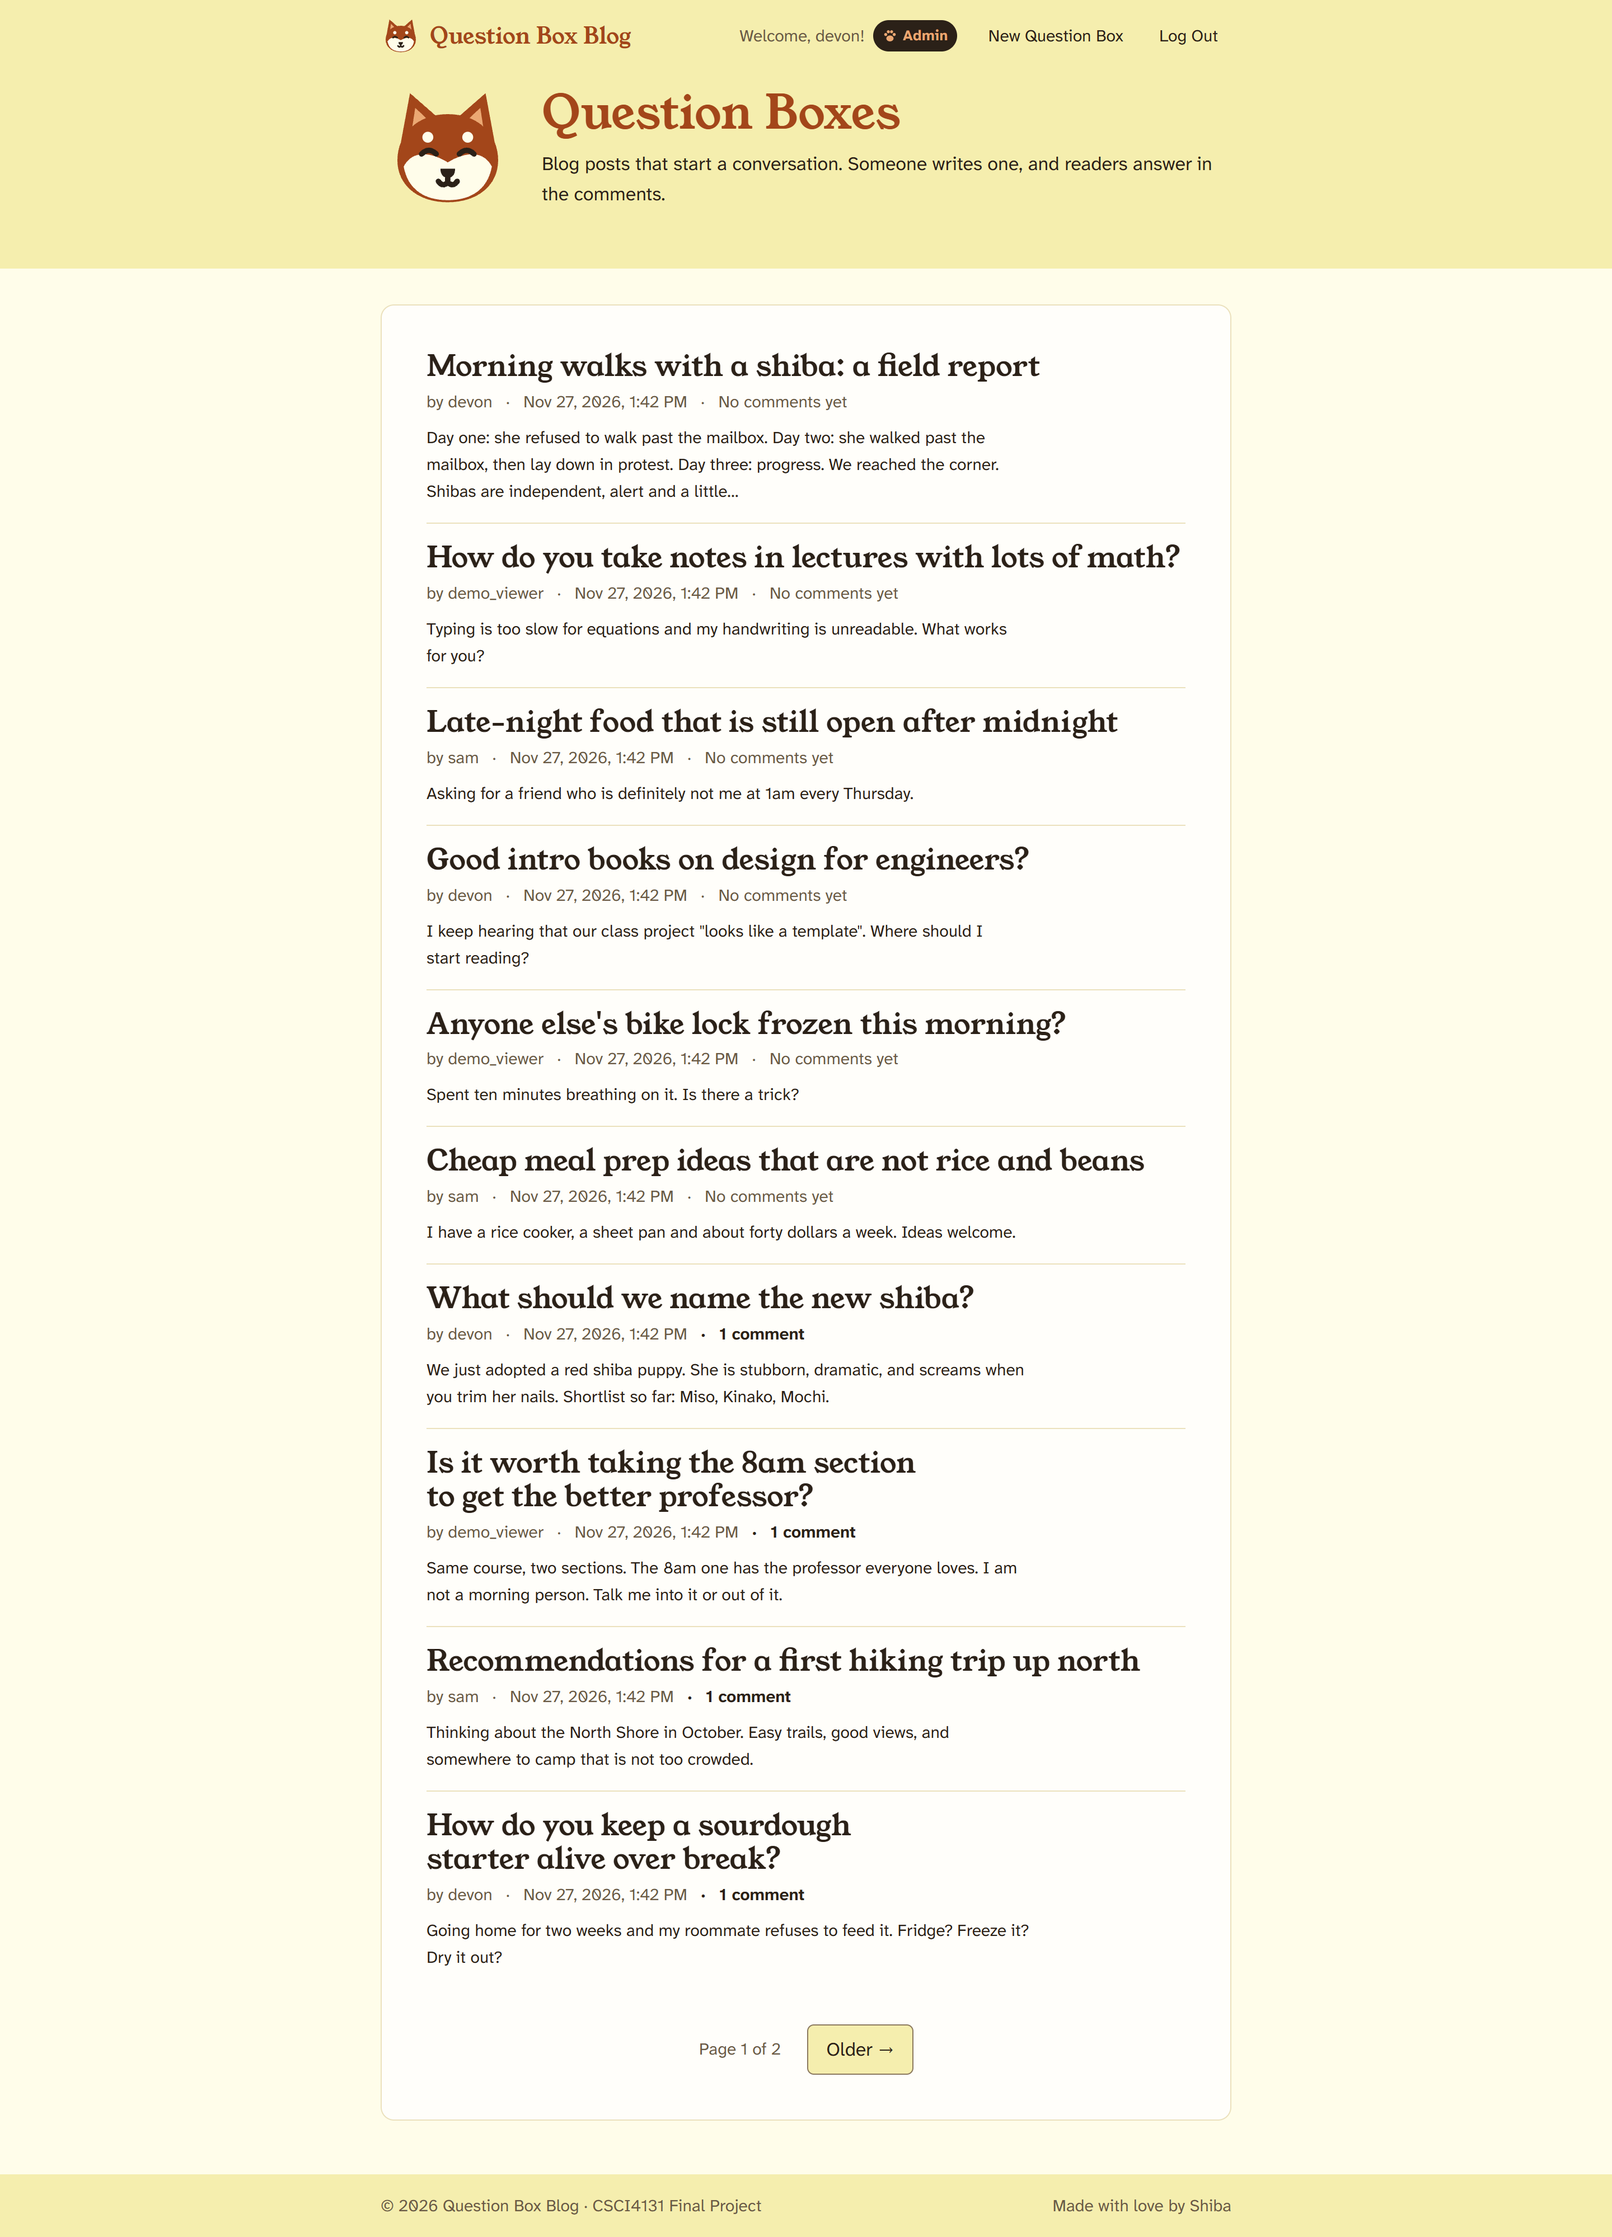
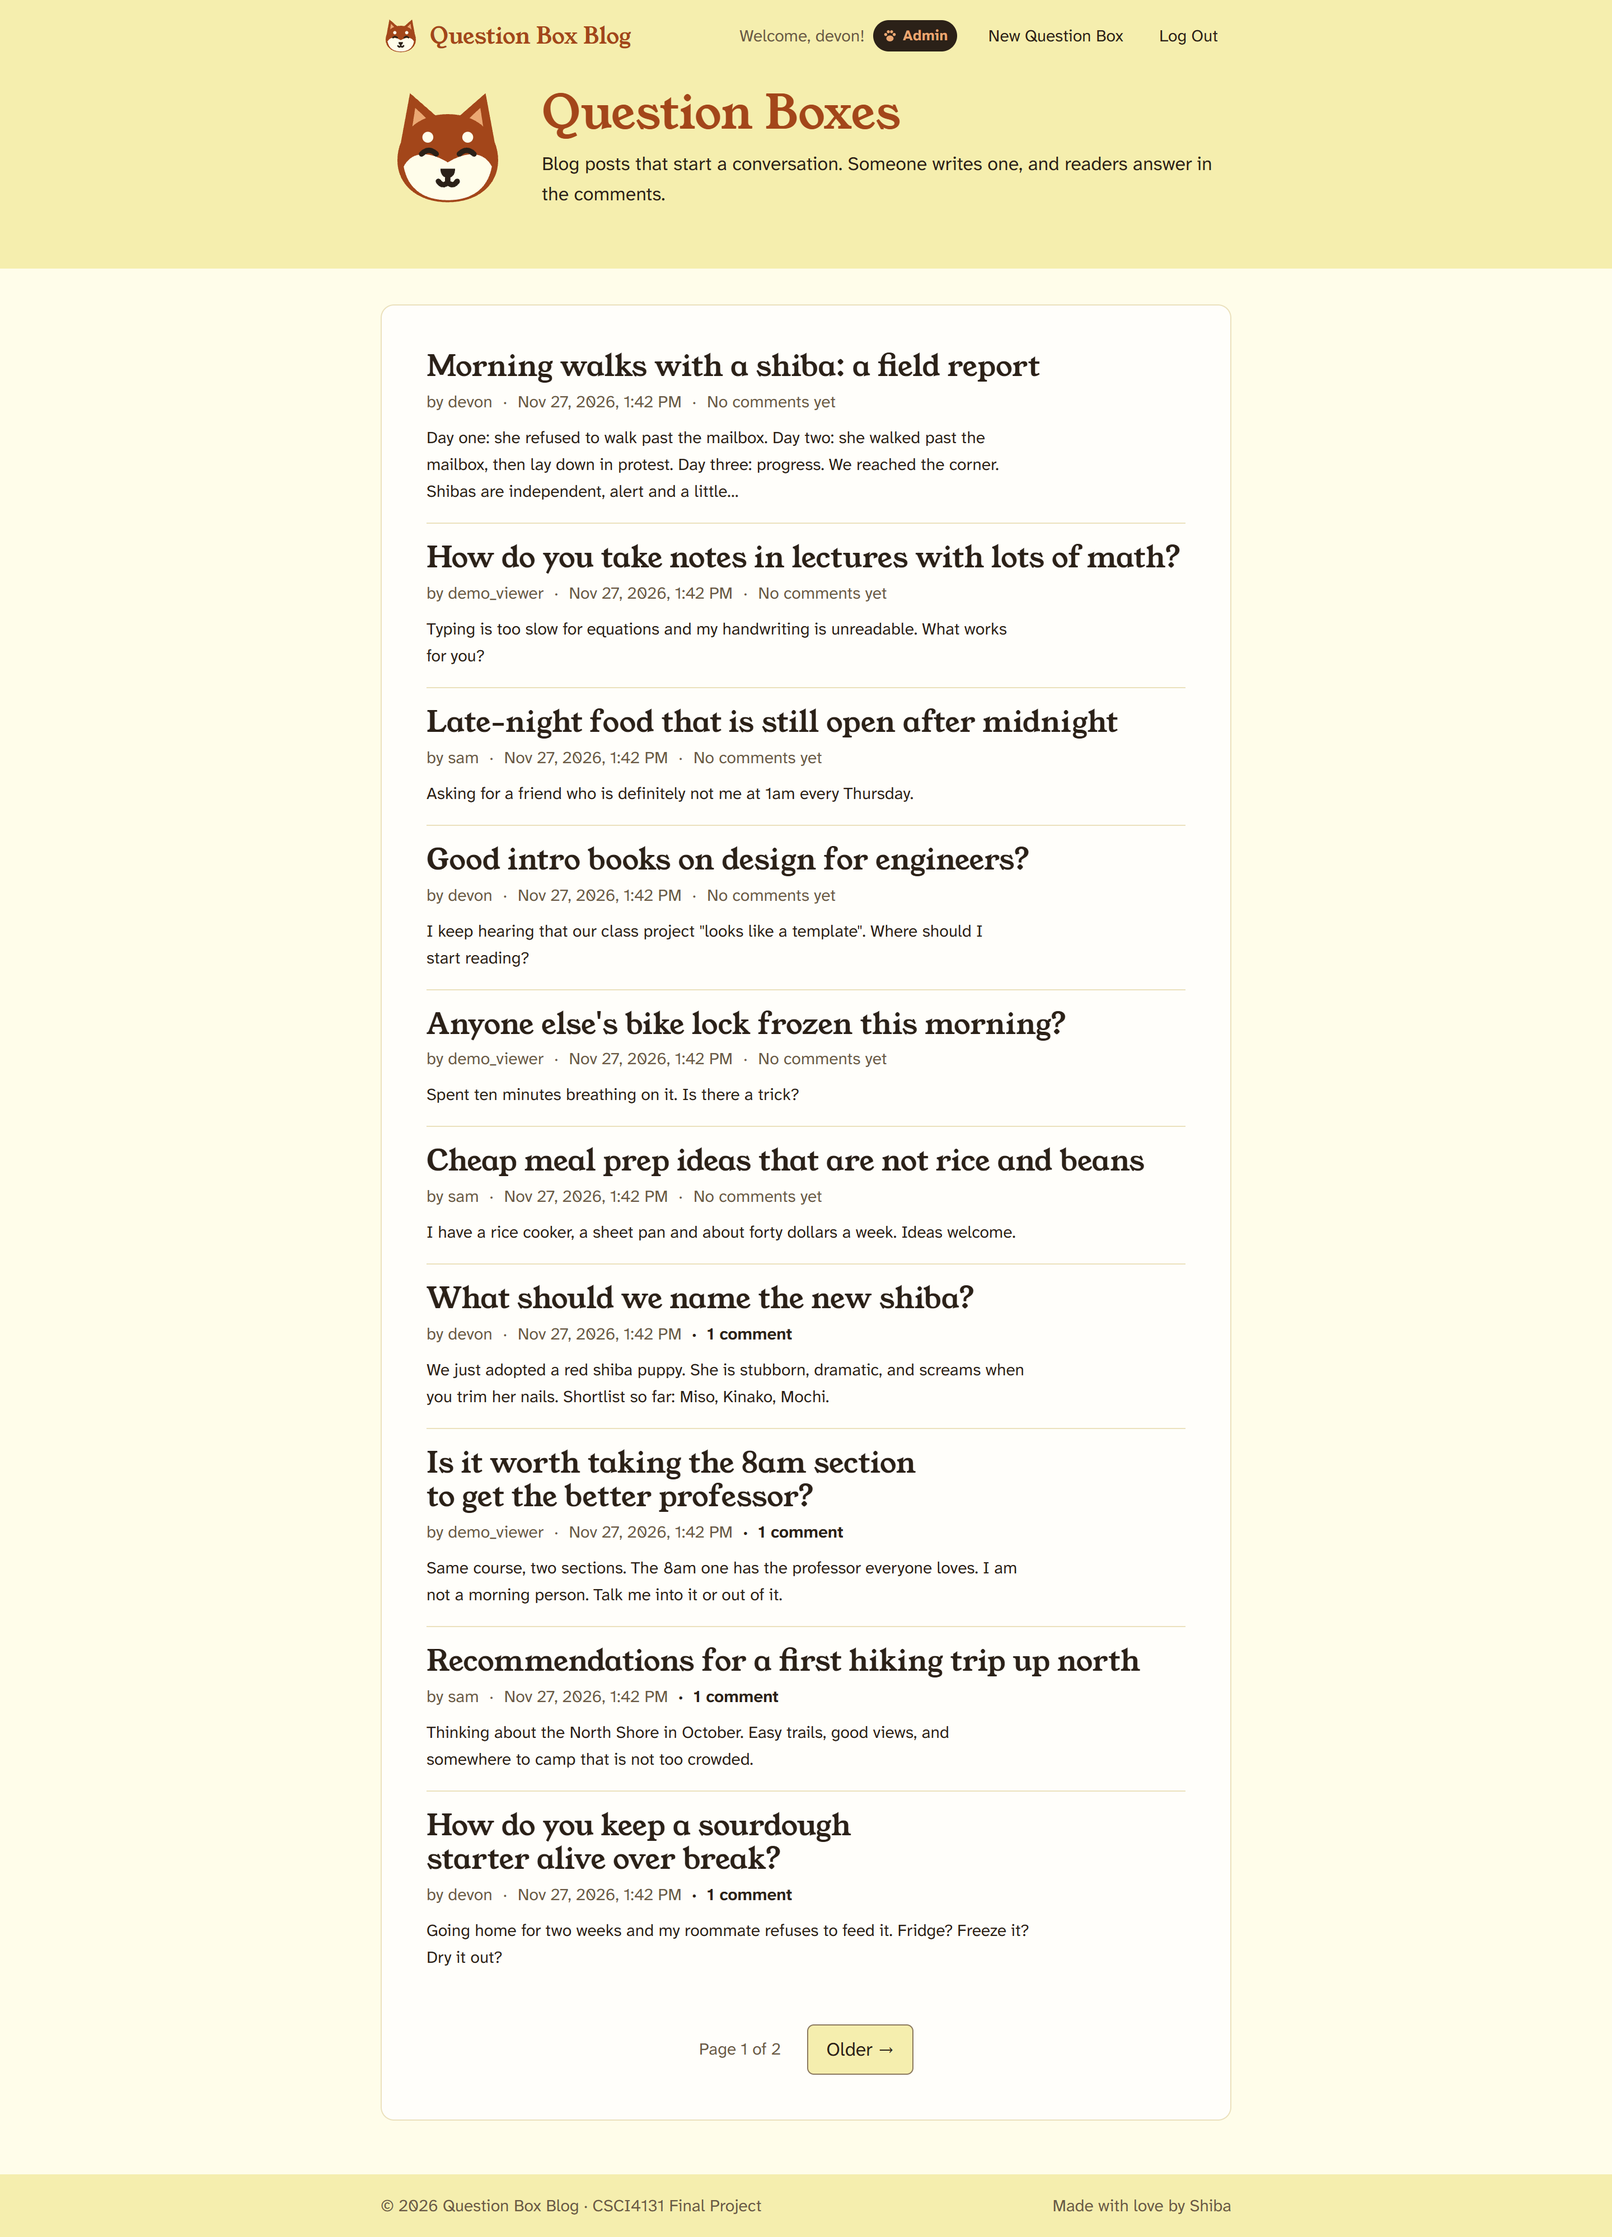
style: Polish pass on flashes, dialog, busy states and meta lines
/impeccable polish over the leftovers from the 27/40 critique:

- Success flashes start with the paw, like a posted comment; on login,
  register and 404 the flash narrows to the 440px card.
- The delete dialog has a heading ("Delete this comment?") and a plain
  message that mentions replies only when there are some; the question
  box dialog names the box and the cascade.
- Busy buttons say "Posting..." / "Deleting..." instead of only greying.
- Opening a reply form clears stale "posted"/"deleted" lines.
- Meta lines clip the dot that would start a wrapped line.
- .btn-small is 40px tall for touch.
- DESIGN.md and the "after" screenshots updated.

diff --git a/resources/js/main.js b/resources/js/main.js
@@ -96,11 +96,12 @@ document.addEventListener('DOMContentLoaded', () => {
 
     // Accessible replacement for confirm(). Falls back to confirm() only in
     // browsers without <dialog>.
-    function confirmAction(message) {
+    function confirmAction(title, message) {
         const dialog = document.getElementById('confirm-dialog');
         if (!dialog || typeof dialog.showModal !== 'function') {
-            return Promise.resolve(window.confirm(message));
+            return Promise.resolve(window.confirm(`${title} ${message}`));
         }
+        dialog.querySelector('#confirm-dialog-title').textContent = title;
         dialog.querySelector('#confirm-dialog-message').textContent = message;
         dialog.returnValue = '';
         dialog.showModal();
@@ -218,7 +219,8 @@ document.addEventListener('DOMContentLoaded', () => {
     document.querySelectorAll('form[data-confirm]').forEach(form => {
         form.addEventListener('submit', async (e) => {
             e.preventDefault();
-            if (await confirmAction(form.dataset.confirm)) {
+            if (await confirmAction(form.dataset.confirmTitle || 'Are you sure?',
+                                    form.dataset.confirm)) {
                 HTMLFormElement.prototype.submit.call(form);
             }
         });
@@ -242,14 +244,19 @@ document.addEventListener('DOMContentLoaded', () => {
     // a time: showing a status clears every other one, so the thread never
     // says "posted" and "deleted" at once.
     function report(statusEl, message, type, sessionEnded, options) {
+        clearStatuses(statusEl);
+        showStatus(statusEl, message, type, sessionEnded, options);
+    }
+
+    // Clears every status in the thread except `keep`. A deleted comment's
+    // placeholder goes as soon as its status is cleared.
+    function clearStatuses(keep) {
         section.querySelectorAll('.form-status').forEach(other => {
-            if (other === statusEl) return;
+            if (other === keep) return;
             clearStatus(other);
-            // A deleted comment's placeholder goes as soon as it's cleared.
             const removed = other.closest('.comment.is-removed');
             if (removed) finishRemoval(removed);
         });
-        showStatus(statusEl, message, type, sessionEnded, options);
     }
 
     function commentStatus(commentEl) {
@@ -385,6 +392,8 @@ document.addEventListener('DOMContentLoaded', () => {
         const container = commentEl.querySelector('.reply-form-container');
         const replyBtn = commentEl.querySelector('.btn-reply');
         container.hidden = false;
+        // Starting a new reply makes earlier "posted"/"deleted" lines stale.
+        if (focus) clearStatuses(null);
         if (replyBtn) {
             replyBtn.setAttribute('aria-expanded', 'true');
             replyBtn.textContent = 'Replying…';
@@ -414,9 +423,18 @@ document.addEventListener('DOMContentLoaded', () => {
         window.setTimeout(() => itemEl.classList.remove('is-new'), 2400);
     }
 
+    // While a request runs, the submit button says what's happening instead
+    // of only greying out.
     function setBusy(form, busy) {
         form.querySelectorAll('button[type="submit"]').forEach(btn => {
             btn.disabled = busy;
+            if (busy) {
+                btn.dataset.label = btn.textContent;
+                btn.textContent = 'Posting…';
+            } else if (btn.dataset.label) {
+                btn.textContent = btn.dataset.label;
+                delete btn.dataset.label;
+            }
         });
         form.setAttribute('aria-busy', busy ? 'true' : 'false');
     }
@@ -538,19 +556,27 @@ document.addEventListener('DOMContentLoaded', () => {
 
     async function deleteItem(btn, kind) {
         const isComment = kind === 'comment';
+        // Mention replies only when the comment actually has some.
+        const replyCount = isComment
+            ? btn.closest('.comment').querySelectorAll('.reply').length
+            : 0;
         const confirmed = await confirmAction(
-            isComment
-                ? "Delete this comment and all of its replies? This can't be undone."
-                : "Delete this reply? This can't be undone.");
+            isComment ? 'Delete this comment?' : 'Delete this reply?',
+            replyCount === 0
+                ? "This can't be undone."
+                : `Its ${replyCount === 1 ? 'reply' : `${replyCount} replies`} will be deleted too. This can't be undone.`);
         if (!confirmed) return;
         const id = isComment ? btn.dataset.commentId : btn.dataset.replyId;
         const commentEl = btn.closest('.comment');
         const statusEl = commentStatus(commentEl);
         btn.disabled = true;
+        const label = btn.textContent;
+        btn.textContent = 'Deleting…';
         const result = await send(
             `/api/${kind}/${id}`, {method : 'DELETE'},
             `Couldn't delete the ${kind}. Refresh the page and try again.`);
         btn.disabled = false;
+        btn.textContent = label;
         if (!result.ok) {
             report(statusEl, result.error, 'error', result.sessionEnded);
             btn.focus();

diff --git a/resources/css/main.css b/resources/css/main.css
@@ -387,6 +387,18 @@ a:hover {
   font-weight: var(--weight-bold);
 }
 
+/* On login, register and 404 the flash matches the narrow card below it. */
+.message--narrow {
+  max-width: var(--column-narrow);
+  margin-inline: auto;
+}
+
+.message-paw {
+  width: 1.15em;
+  height: 1.15em;
+  margin-top: var(--space-1);
+}
+
 .message-text {
   flex: 1;
   padding-block: 2px;
@@ -516,17 +528,25 @@ a:hover {
 }
 
 .post-meta {
-  display: flex;
-  flex-wrap: wrap;
-  align-items: baseline;
-  gap: 0 var(--space-3);
+  overflow: hidden;
   font-size: var(--text-sm);
   color: var(--color-ink-muted);
 }
 
-.post-meta > * + *::before {
+/* Every item carries a leading dot; the dots that start a line sit in the
+ * negative margin and are clipped, so a wrapped line never opens with "·". */
+.post-meta-items {
+  display: flex;
+  flex-wrap: wrap;
+  align-items: baseline;
+  margin-left: -1.5em;
+}
+
+.post-meta-items > *::before {
   content: "·";
-  margin-right: var(--space-3);
+  display: inline-block;
+  width: 1.5em;
+  text-align: center;
 }
 
 /* Question boxes with a conversation stand out from quiet ones. */
@@ -1125,7 +1145,7 @@ a:hover {
 }
 
 .btn-small {
-  min-height: 34px;
+  min-height: 40px;
   padding: var(--space-1) var(--space-3);
   font-size: var(--text-sm);
 }
@@ -1171,9 +1191,13 @@ a:hover {
   background-color: var(--color-scrim);
 }
 
+#confirm-dialog h2 {
+  margin-bottom: var(--space-2);
+  font-size: var(--text-md);
+}
+
 #confirm-dialog p {
   margin-bottom: var(--space-5);
-  font-weight: var(--weight-bold);
 }
 
 .dialog-actions {

diff --git a/DESIGN.md b/DESIGN.md
@@ -221,7 +221,7 @@ Line heights: `--leading-tight` 1.15 (headings), `--leading-snug` 1.35 (buttons,
 - Headings are display, weight 400, `text-wrap: balance`. Body text uses `text-wrap: pretty`.
 - Bodies, comments, list previews and intro lines are capped at `--measure` (56ch). `ch` is the width of a "0", wider than Atkinson's average letter, so 56ch holds about 73 characters. Post bodies keep `white-space: pre-wrap`.
 - Titles, bodies, comments and author names use `overflow-wrap: anywhere`, so one very long word wraps instead of overflowing.
-- Meta lines (author · date · comments) are `--text-sm` in Bark, separated by middle dots. They support the title and never compete with it. In the list, a non-zero comment count is bold Shiba Black ("No comments yet" stays muted), so rows with a conversation stand out.
+- Meta lines (author · date · comments) are `--text-sm` in Bark, separated by middle dots. They support the title and never compete with it. Every item carries a leading dot that is clipped at the start of a line, so a wrapped meta line never opens with "·". In the list, a non-zero comment count is bold Shiba Black ("No comments yet" stays muted), so rows with a conversation stand out.
 - **List hierarchy:** title in Young Serif `--text-lg`, Shiba Black, turning red-tan with an underline on hover or focus; then the meta line; then the preview at `--text-sm`. Every list title in red-tan made the list a monotone wall, so the accent is reserved for the page h1 and for the row under the pointer.
 - Dates use one format everywhere, with no seconds: `Nov 27, 2026, 3:04 PM` (`formatDate` in `server.js`, the same `Intl.DateTimeFormat` options in `main.js`). They render in `<time datetime>`.
 
@@ -253,12 +253,13 @@ Gently rounded and consistent. The content surface and the dialog have 12px corn
 
 ### Buttons
 Three roles that are distinct in fill as well as hue, so they can't be confused at a glance.
-- **Shape:** 6px corners, a 1px border, bold label. Links and buttons share one box (`inline-flex`, explicit line height, 44px min height; 34px for `.btn-small`), so Edit and Delete line up.
+- **Shape:** 6px corners, a 1px border, bold label. Links and buttons share one box (`inline-flex`, explicit line height, 44px min height; 40px for `.btn-small`), so Edit and Delete line up.
 - **Primary:** a red-tan fill with cream text (5.9:1). Use one per view: Publish / Save Changes, Log In, Register, Add Comment, Add Reply, Write the First One, Go Back Home. Hover deepens to Deep Red-Tan.
 - **Secondary:** the default button. A sesame-yellow fill, Shiba Black text and a Whisker outline. Used for Edit, Cancel and pagination. Hover goes to Deep Sesame.
 - **Destructive:** on a question box, a paper fill with a Warning Red outline and text, filling solid red on hover. On comments and replies, a quiet red text button that only gains its outline on hover or focus, and it always comes after Reply.
 - **Thread actions (Reply, comment/reply Delete):** quiet text buttons, so a comment outweighs its actions. Reply is red-tan text that takes the sesame fill on hover or focus; Delete is red text that takes its outline on hover or focus. Both keep a 40px hit area. While its form is open, Reply stays in place as a muted "Replying…" (`aria-expanded="true"`) and reserves that width, so Delete never moves. Accessible names include the author ("Reply to comment by demo_viewer").
-- **States:** hover, `:active` (1px press), `:focus-visible` (2px Deep Red-Tan outline, offset 2px) and `:disabled` (60% opacity, not-allowed cursor).
+- **States:** hover, `:active` (1px press), `:focus-visible` (2px Deep Red-Tan outline, offset 2px) and `:disabled` (60% opacity, not-allowed cursor). While a request runs, the button says so ("Posting…", "Deleting…").
+- **Delete dialog:** a `<dialog>` with a Young Serif heading ("Delete this comment?") and a plain message that names what goes with it, mentioning replies only when there are some. Cancel has focus; Esc cancels.
 
 ### Cards / Containers
 - **Content surface:** Paper, with a 1px hairline border, 10px corners and 30px padding. It is the only container.
@@ -280,7 +281,7 @@ Three roles that are distinct in fill as well as hue, so they can't be confused 
 On an anonymous comment or reply, admins see a tag under the author line: "Posted anonymously by **name** · only admins see this". It is a dashed red-tan outline on Sun Wash with Deep Red-Tan text (about 7:1), never stray text in the header row.
 
 ### Flash messages
-Below the header, inside the page column, above the content surface. A 1px border in the status color over its wash, bold text, and a dismiss (×) button; dismissing moves focus to the page heading. Errors use `role="alert"`, everything else `role="status"`. Success uses Leaf Green on Leaf Wash, error uses Deep Warning Red on Warn Wash with a Warning Red border, and info uses Shiba Black on Sun Wash.
+Below the header, inside the page column, above the content surface. On narrow pages (login, register, 404) it narrows to the 440px card under it. Success flashes start with the paw, the same acknowledgement as a posted comment. A 1px border in the status color over its wash, bold text, and a dismiss (×) button; dismissing moves focus to the page heading. Errors use `role="alert"`, everything else `role="status"`. Success uses Leaf Green on Leaf Wash, error uses Deep Warning Red on Warn Wash with a Warning Red border, and info uses Shiba Black on Sun Wash.
 
 ## Shiba Motif
 
